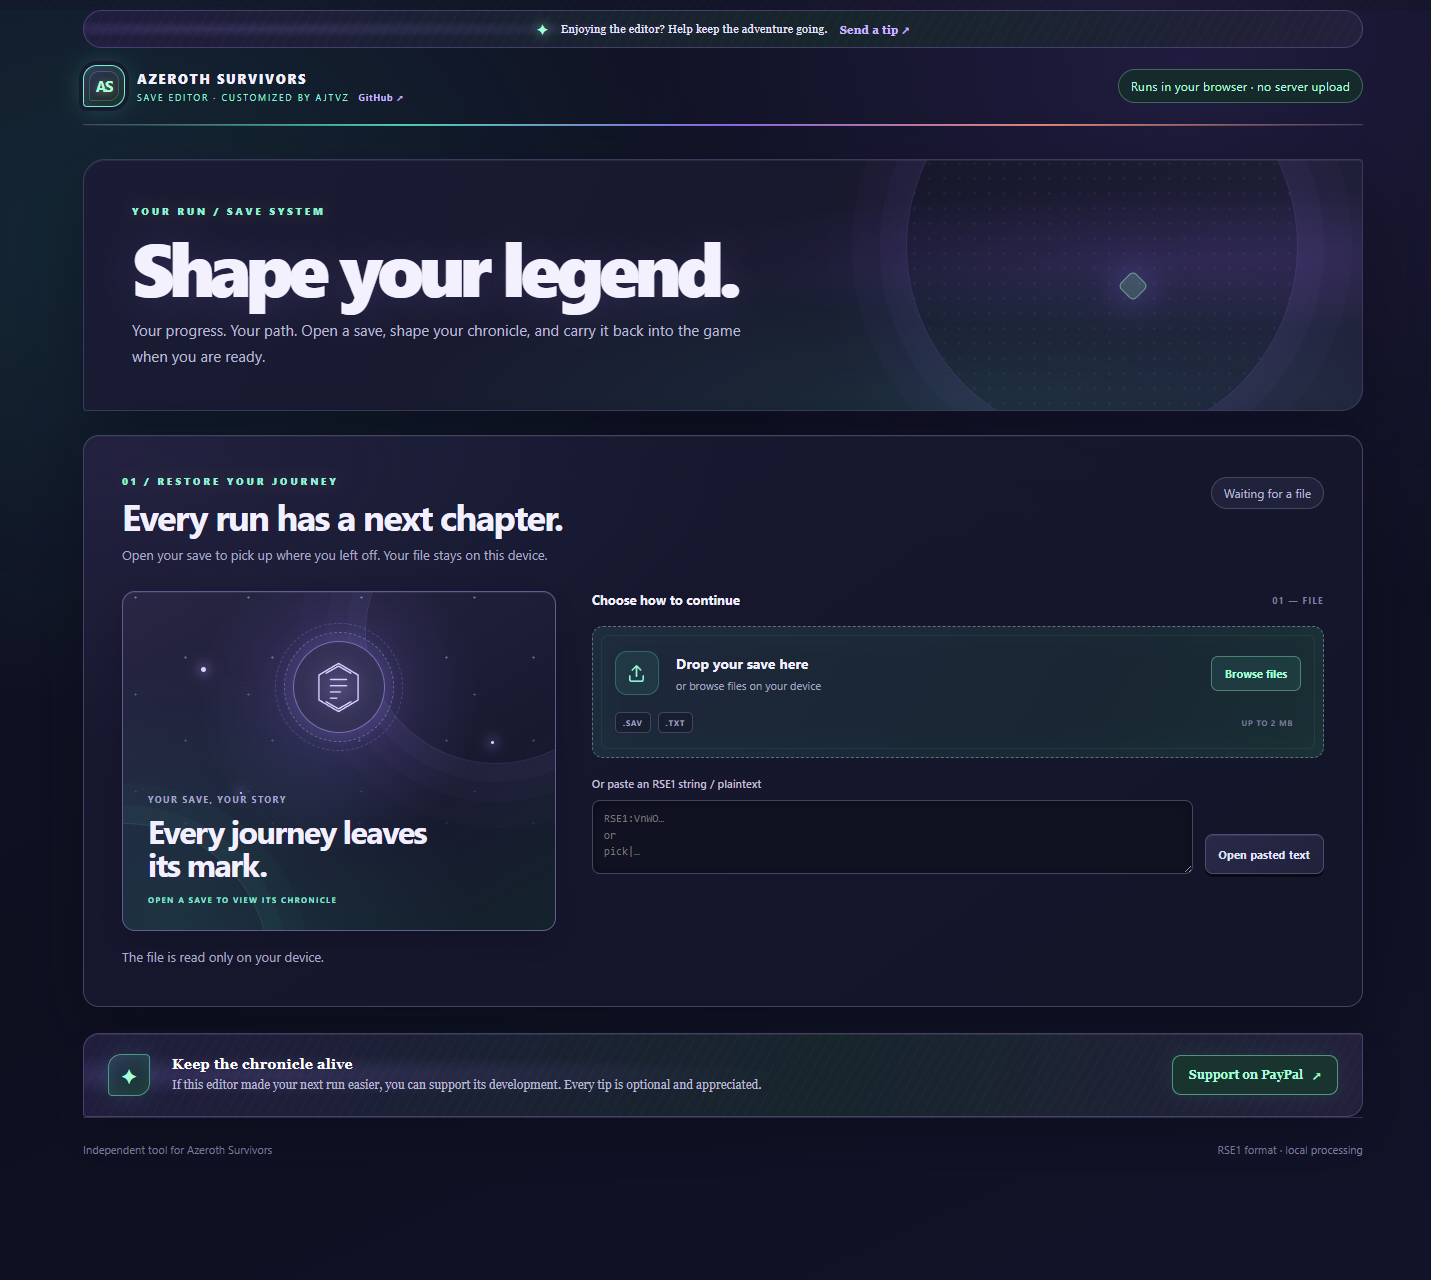
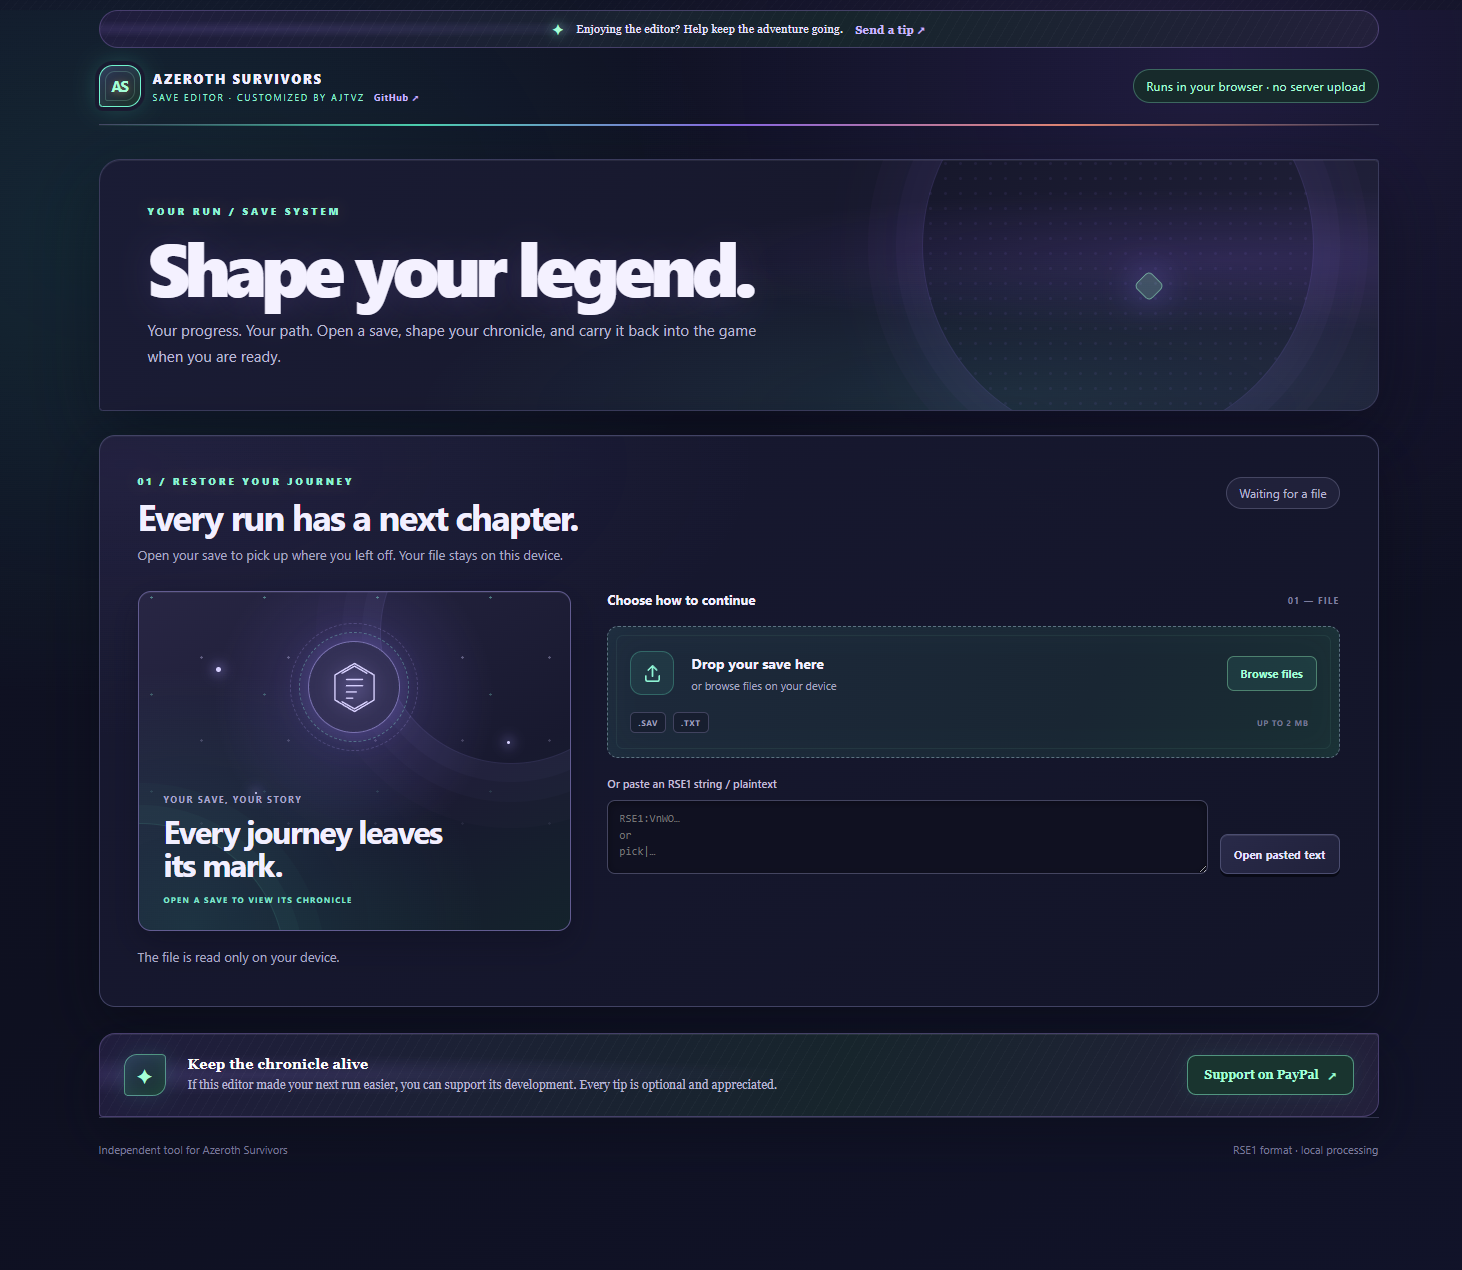
Add gear loadout and item upgrades

diff --git a/src/app.js b/src/app.js
@@ -762,6 +762,15 @@ function classCollectionIds(classId) {
   });
 }
 
+function equipmentSlotsForClass(classId) {
+  const slots = [
+    [0, 0], [1, 2], [2, 4], [3, 5], [4, 6],
+    [5, 7], [6, 8], [7, 9], [8, classId === "3" || classId === "11" ? 17 : 15],
+  ];
+  slots.push([9, 16]);
+  return slots;
+}
+
 function allCollectionIds() {
   return catalog.classes.flatMap(([classId]) => classCollectionIds(classId));
 }
@@ -897,28 +906,84 @@ function renderItems() {
     model.toggleList("items", id, true);
     if (itemDetails(id)?.classId !== selectedClass) itemScope = "all";
   }));
-  body.append(node("h4", { className: "subheading", text: "Экипировка класса" }));
-  const equip = classCsv("equip");
-  const equipList = node("div", { className: "stack" });
-  for (const entry of equip) {
+  body.append(node("h4", { className: "subheading", text: "Equipment loadout" }),
+    node("p", { className: "hint", text: `Choose gear for each ${className(selectedClass)} slot. Selecting an item adds it to your collection; each equipped piece can be upgraded from 0 to 5 stars.` }));
+  const equippedBySlot = new Map(classCsv("equip").map(entry => {
     const [slot, id] = entry.split(":");
-    equipList.append(node("div", { className: "rank-row" },
-      node("span", { text: `${equipmentSlotName(Number(slot))} · ${id}` }),
-      button("Убрать", () => setClassCsv("equip", equip.filter(value => value !== entry)), "danger small-button")));
+    return [slot, id];
+  }));
+  const stars = model.keyed("stars", ":");
+  const loadout = node("div", { className: "equipment-loadout" });
+  for (const [itemSlot, equipmentSlot] of equipmentSlotsForClass(selectedClass)) {
+    const currentItem = equippedBySlot.get(String(equipmentSlot)) || "";
+    const select = node("select", { ariaLabel: `${equipmentSlotName(equipmentSlot)} equipped item` });
+    select.append(node("option", { value: "", text: "Unequipped" }));
+    const choices = [...new Set([
+      ...availableItems(items).filter(id => {
+        const details = itemDetails(id);
+        return details?.classId === selectedClass && details.slot === itemSlot;
+      }),
+      ...(currentItem ? [currentItem] : []),
+    ])].sort();
+    for (const id of choices) {
+      const details = itemDetails(id);
+      const title = details ? `${setName(details.set)} · ${id}` : `Item ${id}`;
+      select.append(node("option", { value: id, text: title }));
+    }
+    select.value = currentItem;
+    select.addEventListener("change", () => {
+      const next = classCsv("equip").filter(entry => !entry.startsWith(`${equipmentSlot}:`));
+      if (select.value) {
+        next.push(`${equipmentSlot}:${select.value}`);
+        model.toggleList("items", select.value, true);
+      }
+      model.set("equip", [selectedClass, next.join(",")], selectedClass);
+      render();
+      showMessage(`${equipmentSlotName(equipmentSlot)} loadout updated.`, "success");
+    });
+
+    const upgrade = node("select", {
+      ariaLabel: `${equipmentSlotName(equipmentSlot)} star upgrades`,
+      disabled: !currentItem,
+    });
+    for (let value = 0; value <= 5; value++) {
+      upgrade.append(node("option", { value: String(value), text: `${value} ${value === 1 ? "star" : "stars"}` }));
+    }
+    upgrade.value = currentItem ? stars.get(currentItem) || "0" : "0";
+    upgrade.addEventListener("change", () => {
+      if (!currentItem) return;
+      model.setKey("stars", currentItem, upgrade.value === "0" ? null : upgrade.value, ":");
+      render();
+      showMessage(`${equipmentSlotName(equipmentSlot)} upgrade level updated.`, "success");
+    });
+
+    const details = itemDetails(currentItem);
+    loadout.append(node("div", { className: "equipment-loadout-row" },
+      node("div", { className: "equipment-loadout-slot" },
+        details ? icon(visuals?.gear?.[selectedClass]?.[details.set]?.[details.slot]
+          ? `game/${visuals.gear[selectedClass][details.set][details.slot]}`
+          : details.set === 5 ? "pvp" : `slot-${slotSlugs[details.slot]}`)
+          : icon(`slot-${slotSlugs[itemSlot]}`),
+        node("strong", { text: equipmentSlotName(equipmentSlot) })),
+      select,
+      upgrade));
   }
-  const slotInput = node("input", { type: "number", min: "0", step: "1", placeholder: "Слот" });
-  const itemInput = node("input", { type: "text", inputMode: "numeric", placeholder: "ID предмета" });
-  const form = node("form", { className: "inline-form" }, slotInput, itemInput, node("button", { type: "submit", className: "button secondary", text: "Установить" }));
-  form.addEventListener("submit", event => {
-    event.preventDefault();
-    if (!/^\d+$/.test(slotInput.value) || !/^\d+$/.test(itemInput.value)) return showMessage("Введите числовой слот и ID предмета.", "error");
-    const next = equip.filter(entry => !entry.startsWith(`${slotInput.value}:`));
-    next.push(`${slotInput.value}:${itemInput.value}`);
-    model.toggleList("items", itemInput.value, true);
-    setClassCsv("equip", next);
-  });
-  body.append(equipList, form);
-  body.append(node("p", { className: "hint", text: "ID найденных предметов взяты из сейва. ID PvP-набора выведены из той же схемы и по умолчанию не отмечены. Слоты и совместимость проверяет игра." }));
+  const upgradeEquipped = button("Upgrade all equipped items to 5 stars", () => {
+    const currentLoadout = classCsv("equip");
+    if (!currentLoadout.length) return showMessage("Equip at least one item before applying upgrades.", "error");
+    const nextStars = model.keyed("stars", ":");
+    for (const entry of currentLoadout) {
+      const [, id] = entry.split(":");
+      if (id) nextStars.set(id, "5");
+    }
+    beginBulkAction();
+    model.setKeyed("stars", nextStars, ":");
+    finishBulkAction();
+    render();
+    showMessage(`All ${currentLoadout.length} equipped items upgraded to 5 stars.`, "success");
+  }, "primary");
+  body.append(loadout, node("div", { className: "equipment-loadout-actions" }, upgradeEquipped),
+    node("p", { className: "hint", text: "Equipped items are saved in this character's equip record. Star upgrades are stored by item ID in the account's stars record; the game validates slot compatibility and upgrade rules." }));
 
   body.append(node("h4", { className: "subheading", text: "Marks" }));
   const marksBulkAction = node("div", { className: "bulk-editor-action" },

diff --git a/styles.css b/styles.css
@@ -1683,6 +1683,43 @@ input[type=checkbox]{accent-color:#68ecc3}
 }
 .gear-tile-empty{min-height:1px}
 .gear-tile.filtered-out{visibility:hidden;pointer-events:none}
+.equipment-loadout{
+  display:grid;
+  grid-template-columns:repeat(2,minmax(0,1fr));
+  gap:9px;
+}
+.equipment-loadout-row{
+  display:grid;
+  grid-template-columns:minmax(115px,.8fr) minmax(0,1.5fr) minmax(86px,.55fr);
+  align-items:center;
+  gap:9px;
+  min-width:0;
+  padding:10px;
+  border:1px solid #3b3c5a;
+  border-radius:11px;
+  background:linear-gradient(120deg,#1d2039,#171a2c);
+}
+.equipment-loadout-slot{
+  display:flex;
+  align-items:center;
+  gap:8px;
+  min-width:0;
+}
+.equipment-loadout-slot strong{
+  overflow-wrap:anywhere;
+  color:#e7e4f8;
+  font-size:11px;
+}
+.equipment-loadout-row select{
+  width:100%;
+  min-width:0;
+  min-height:38px;
+  padding:8px;
+  font-size:11px;
+}
+.equipment-loadout-row select:disabled{opacity:.55}
+.equipment-loadout-actions{display:flex;justify-content:flex-end;margin-top:12px}
+.equipment-loadout-actions .button{min-height:39px}
 #panel-body,.panel{min-width:0;max-width:100%}
 .collection-scroll{min-width:0;max-width:100%;overflow-x:auto;overscroll-behavior-inline:contain}
 @media(max-width:640px){
@@ -1693,6 +1730,8 @@ input[type=checkbox]{accent-color:#68ecc3}
   .gear-collection-grid{grid-template-columns:minmax(120px,1.2fr) repeat(10,minmax(78px,1fr))!important}
   .gear-collection-set{padding:6px}
   .gear-tile{min-height:64px}
+  .equipment-loadout{grid-template-columns:1fr}
+  .equipment-loadout-row{grid-template-columns:minmax(95px,.75fr) minmax(0,1.4fr) minmax(78px,.55fr);gap:7px;padding:8px}
 }
 
 .workspace{padding-top:clamp(24px,3.2vw,42px)}

diff --git a/README.md b/README.md
@@ -11,18 +11,31 @@ No download or installation needed. Your save is read and edited locally in your
 ## Make your save your own
 
 - Adjust character progress, zones, talents, gear, equipment, codex entries, stats, perks, pets, and more.
+- Choose gear for each character equipment slot, set individual upgrades from 0 to 5 stars, or upgrade all currently equipped items to 5 stars.
 - Browse and search 129 achievements, edit earned dates, or choose an exact achievement score up to 3,195 points.
 - Export an edited `.sav` file or copy its RSE1 string to import into your game.
 - Keep your original save as a backup before importing changes.
 
-![Achievement editor with search, score controls, and achievement list](docs/screenshots/editor-achievements.png)
+![Equipment loadout editor with gear selection and star upgrades](docs/screenshots/editor-equipment.png)
 
 ## How to use
 
 1. **[Open the editor](https://ajtvz.github.io/ASeditor/).**
-2. Select your `.sav` file or paste an RSE1 string.
+2. Select your `characters.txt` save or an exported `.sav` file, or paste an RSE1 string.
 3. Make your changes, then download the edited save or copy the RSE1 string.
 4. Import the edited save in the game. Keep your backup until you confirm it works.
+
+## Find your save file
+
+The editor runs in your browser and does not search your computer automatically. Use **Browse files** to select the save file from its folder. The game stores its character save in these locations:
+
+| Platform | Character save | Exports and backups |
+| --- | --- | --- |
+| Windows | `%APPDATA%\wenilla-rogue\characters.txt` | `%APPDATA%\wenilla-rogue\Saves` |
+| Linux | `~/.local/share/wenilla-rogue/characters.txt` (or `$XDG_DATA_HOME/wenilla-rogue/characters.txt`) | `~/.local/share/wenilla-rogue/Saves` |
+| macOS | `~/.local/share/wenilla-rogue/characters.txt` | `~/.local/share/wenilla-rogue/Saves` |
+
+On Windows, press **Win+R**, enter `%APPDATA%\wenilla-rogue`, and press Enter. Back up your save before replacing or importing any changes.
 
 ## Support development
 

diff --git a/docs/format.md b/docs/format.md
@@ -36,6 +36,7 @@ RSE1: + Base64(nonce[16] || ciphertext[N] || tag[20])
 | `talent` | Опыт талантов и пары `id:rank` класса. |
 | `items` | Числовые ID найденных предметов аккаунта. |
 | `equip` | Пары `slot:item_id` для класса. |
+| `stars` | Пары `item_id:stars` с улучшением экипировки от 1 до 5 звёзд; редактор позволяет менять звёзды надетых предметов. |
 | `marks` | Количество меток улучшения экипировки для класса: `marks|class_id|amount`. |
 | `look` | Внешний вид экипировки класса. |
 | `seen` | Пары `id=quality` кодекса (качество от 0 до 4 в образце). |
